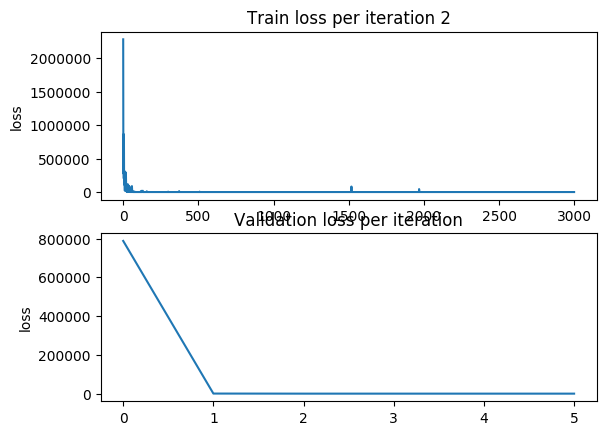
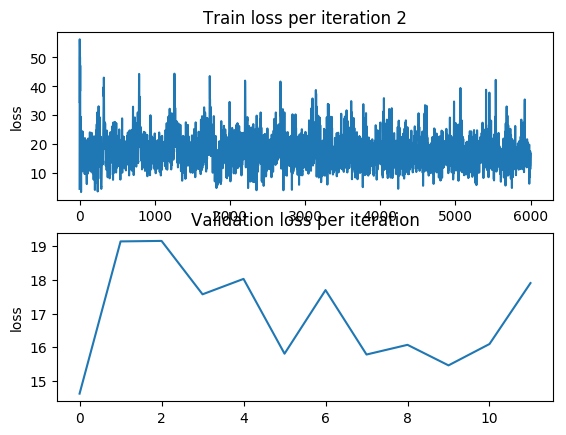
smaller LR with plots

diff --git a/code/approx_sparse_coding/train.py b/code/approx_sparse_coding/train.py
@@ -17,6 +17,12 @@ def tf_sparse_count(tf_vec):
 def zero_none_grad(grad, var):
     return grad if grad != None else tf.zeros_like(var)
 
+def cape_g_byname(grad, var, name, min=-1, max=1):
+    grad  = zero_none_grad(grad, var)
+    if var.name == model.theta.name:
+        grad  = tf.clip_by_value(zero_none_grad(grad, var), min, max)
+    return grad
+
 def train(sess, model, train_gen, num_optimization_steps, valid_gen=None, valid_steps=0, logdir='./logdir'):
     """ Train.
     
@@ -42,7 +48,7 @@ def train(sess, model, train_gen, num_optimization_steps, valid_gen=None, valid_
     #
     # optimize graph with gradient decent with LR of 1/t
     global_step   = tf.Variable(0, trainable=False)
-    learning_rate = 0.1
+    learning_rate = 0.005
     k             = 0.5
     decay_rate    = 1
     learning_rate = tf.train.inverse_time_decay(learning_rate, global_step, k, decay_rate)
@@ -65,19 +71,22 @@ def train(sess, model, train_gen, num_optimization_steps, valid_gen=None, valid_
     Z_star_sparcity = []
     for step in range(num_optimization_steps):
         X_train, Z_train           = next(train_gen)
+
         _, loss, theta, Z = sess.run( [optimizer, model.loss, model.theta, model.output], 
                                     {model.input: X_train, model.target: Z_train})
         train_loss.append(loss)
         Z_sparcity.append(np.count_nonzero(Z))
         Z_star_sparcity.append(np.count_nonzero(Z_train))
 
-        print('\rTrain step: %d. Loss %.6f.' % (step+1, loss))
+        #print('\rTrain step: %d. Loss %.6f.' % (step+1, loss))
 
         if ((step) % 500 == 0):
             X_train, Z_train    = next(train_gen)
             loss, theta, Z, We, S  = sess.run( [model.loss, model.theta, model.output, model.We, model.S], 
                                                    {model.input: X_train, model.target: Z_train})
-            print('\rSanity run: Loss %.6f theta: %.6f current avg sparsity %.6f.' % (loss, theta, np.mean(Z_sparcity)))
+            print('\rSanity run: Loss %.6f current avg sparsity %.6f.' % (loss, np.mean(Z_sparcity)))
+            print('S norm: %.6f Wd norm: %.6f thea: %.6f'%(np.linalg.norm(S,'fro'), \
+                                                           np.linalg.norm(We,'fro'), theta))
 
         if (step % 500 == 0) and valid_steps != 0:
             val_avg_loss = 0
@@ -159,7 +168,7 @@ if __name__ == '__main__':
     parser = argparse.ArgumentParser(description='Train approximate sparse code learnign network based on paper \
     Learning Fast Approximations of Sparse Coding - http://yann.lecun.com/exdb/publis/pdf/gregor-icml-10.pdf')
 
-    parser.add_argument('-m', '--model', default='lista', type=str, choices=['lcod', 'lista'], \
+    parser.add_argument('-m', '--model', default='lcod', type=str, choices=['lcod', 'lista'], \
         help='input mode to use valid options are - "lcod" or "lista"')
 
     parser.add_argument('-tr', '--train_path', default='/../../lcod_trainset/trainset.npy', type=str,\
@@ -178,7 +187,7 @@ if __name__ == '__main__':
     parser.add_argument('-u', '--unroll_count', default=defualt_iters, type=int, nargs='+',\
         help='Amount of times to run lcod/list block')
 
-    parser.add_argument('-n', '--num_steps', default=3000, type=int,\
+    parser.add_argument('-n', '--num_steps', default=4000, type=int,\
         help='number of training steps')
 
     parser.add_argument('-vs', '--num_validsteps', default=50, type=int,\
@@ -205,10 +214,11 @@ if __name__ == '__main__':
         
         print("*"*30 + 'unroll amount {}'.format(unroll_count) + "*"*30)
         if args.model == 'lcod':
-            model = lcod.LCoD(We_shape=We_shape, unroll_count=unroll_count)
+            X, Z = next(data_gens.train_gen)
+            model = lcod.LCoD(We_shape=We_shape, unroll_count=unroll_count, We=Wd.T)
             tst = 'cod'
         else:
-            model = lista.LISTA(We_shape=We_shape, unroll_count=unroll_count)
+            model = lista.LISTA(We_shape=We_shape, unroll_count=unroll_count, We=Wd.T)
             tst = 'ista'
 
         with tf.Session() as sess:
@@ -240,6 +250,6 @@ if __name__ == '__main__':
     plt.plot(args.unroll_count, sc_error, 'g^', label=lb2)
     plt.ylabel('error')
     plt.xlabel('iter')
-    plt.legend(loc='upper left')
+    plt.legend(loc='upper right')
     plt.show()
 

diff --git a/code/approx_sparse_coding/approx_sc.py b/code/approx_sparse_coding/approx_sc.py
@@ -1,8 +1,9 @@
 import tensorflow as tf
+import numpy as np
 
 class ApproxSC(object):
     """description of class"""
-    def __init__(self, We_shape, unroll_count, We=None,  shrinkge_type='soft thresh'):
+    def __init__(self, We_shape, unroll_count,  shrinkge_type='soft thresh'):
         """ Create a LCoD model.
         
         Args:
@@ -22,15 +23,9 @@ class ApproxSC(object):
         self._Z     = None
         #
         # Trainable Parameters 
-        self._S     = tf.Variable( tf.truncated_normal([m, m]), name='S')
-        self._theta = tf.Variable(tf.truncated_normal([1]), name='theta')
-
-        if We is None:
-            self._We    = tf.Variable( tf.truncated_normal([m,n]), name='We', dtype=tf.float32)
-        else:
-            #
-            # warm start
-            self._We    = tf.Variable(We, name='We', dtype=tf.float32)
+        self._theta = None
+        self._S     = None
+        self._We    = None
         #
         # Loss
         self._loss  = None
@@ -46,10 +41,10 @@ class ApproxSC(object):
             raise NotImplementedError('Double Tanh not implemented')
 
     def _soft_thrsh(self, B):
-        #soft_thrsh_out = tf.multiply(tf.sign(B), tf.nn.relu(tf.subtract(tf.abs(B), self._theta)))
-        soft_thrsh_out  = tf.nn.relu(tf.divide(B, self._theta) - 1)
-        soft_thrsh_out  = tf.multiply(tf.sign(B), soft_thrsh_out)
-        soft_thrsh_out  = tf.multiply(soft_thrsh_out, self._theta)
+        soft_thrsh_out = tf.multiply(tf.sign(B), tf.nn.relu(tf.subtract(tf.abs(B), self._theta)))
+        #soft_thrsh_out  = tf.nn.relu(tf.divide(B, self._theta) - 1)
+        #soft_thrsh_out  = tf.multiply(tf.sign(B), soft_thrsh_out)
+        #soft_thrsh_out  = tf.multiply(soft_thrsh_out, self._theta)
         return soft_thrsh_out
 
     def _double_tanh(self, B):
@@ -82,14 +77,21 @@ class ApproxSC(object):
 
     @property
     def theta(self):
+        if self._theta is None:
+            assert('Abstract class define child theta') 
+
         return self._theta
         
     @property
     def S(self):
+        if self._S is None:
+            assert('Abstract class define child S') 
         return self._S
 
     @property
     def We(self):
+        if self._We is None:
+            assert('Abstract class define child We') 
         return self._We
 
     @property

diff --git a/code/approx_sparse_coding/lcod.py b/code/approx_sparse_coding/lcod.py
@@ -20,9 +20,20 @@ class LCoD(ApproxSC):
             We_shape: Input X is encoded using matmul(We, X).
             unroll_size: Amount of times to repeat lcod block.
         """
-        super().__init__(We_shape, unroll_count, We, shrinkge_type)
-        m, n = self._We_shape
-        self._Z     = tf.Variable(tf.zeros_initializer([m, 1]), trainable=False)
+        super().__init__(We_shape, unroll_count, shrinkge_type)
+        m, n            = self._We_shape
+        self._Z         = tf.zeros([m, 1])
+        if We != None:
+            #
+            # warm start
+            self._theta = tf.Variable(tf.constant(0.5), name='theta')
+            self._We    = tf.Variable(We, name='We', dtype=tf.float32)
+            self._S     = tf.Variable(np.eye(m) - np.matmul(We, We.T), dtype=tf.float32)
+        else:
+            self._theta = tf.Variable(tf.truncated_normal([1]), name='theta')
+            self._S     = tf.Variable( tf.truncated_normal([m, m]), name='S')
+            self._We    = tf.Variable( tf.truncated_normal([m,n]), name='We', dtype=tf.float32)
+
      
  
     def _lcod_step(self, Z, B, S, shrink_fn):
@@ -69,8 +80,9 @@ class LCoD(ApproxSC):
         """
         if self._loss is None:
             with tf.variable_scope('loss'):
-                self._loss = tf.nn.l2_loss(self._Zstar - self._Z, name='loss') 
-                #self._loss += 0.01*tf.nn.l2_loss(self._theta)
+                self._loss = tf.nn.l2_loss(self._Zstar - self._Z, name='loss')
+                self._loss += 1e6*tf.nn.l2_loss(tf.minimum(self._theta, 0))  
+                #self._loss += tf.nn.l2_loss(self._theta)
                 #self._loss += 0.1*tf.nn.l2_loss(self._S)
                 #self._loss += 0.1*tf.nn.l2_loss(self._We) 
         return self._loss

diff --git a/code/approx_sparse_coding/lista.py b/code/approx_sparse_coding/lista.py
@@ -5,6 +5,7 @@ import sys
 from approx_sc import ApproxSC
 
 
+
 class LISTA(ApproxSC):
     """description of class"""
 
@@ -15,7 +16,19 @@ class LISTA(ApproxSC):
             We_shape: Input X is encoded using matmul(We, X).
             unroll_size: Amount of times to repeat lcod block.
         """
-        super().__init__(We_shape, unroll_count, We, shrinkge_type)
+        super().__init__(We_shape, unroll_count, shrinkge_type)
+        m, n            = self._We_shape
+        if We != None:
+            #
+            # warm start
+            L           = max(abs(np.linalg.eigvals(np.matmul(We, We.T))))
+            self._theta = tf.Variable(tf.constant(0.5/L, dtype=tf.float32), name='theta')
+            self._We    = tf.Variable(We/L, name='We', dtype=tf.float32)
+            self._S     = tf.Variable(np.eye(m) - np.matmul(We/L, We.T), dtype=tf.float32)
+        else:
+            self._theta = tf.Variable(tf.truncated_normal([1]), name='theta')
+            self._S     = tf.Variable( tf.truncated_normal([m, m]), name='S')
+            self._We    = tf.Variable( tf.truncated_normal([m,n]), name='We', dtype=tf.float32)
  
     def _lista_step(self, Z, B, S, shrink_fn):
         """ LCoD step.

diff --git a/code/approx_sparse_coding/train_mnist.py b/code/approx_sparse_coding/train_mnist.py
@@ -1,4 +1,3 @@
-import lcod
 import mnist
 #import tensorflow as tf
 import shutil
@@ -7,18 +6,18 @@ import numpy as np
 from sparse_coding import cod, ista
 from sklearn.decomposition import MiniBatchDictionaryLearning
 from sklearn import linear_model
+import lcod
 
 traindata = np.load(r'C:\Users\Hillel\Desktop\Msc3\sparse\final_project\mnist\train.npy')
 input     = traindata[:, 2:]
-label     = np.zeros(shape=(input.shape(0), 10))
-label[np.arange(traindata[:, 2:].shape(0), traindata[:, 1])] = 1 
+label     = np.zeros(shape=(input.shape[0], 10))
+label[np.arange(traindata[:, 2:].shape[0]), traindata[:, 1].astype(np.int)] = 1 
 
 dico = MiniBatchDictionaryLearning(n_components=400, alpha=0.5, n_iter=1000)
 Wd = dico.fit(input).components_.T
 
 clf = linear_model.Lasso(alpha=0.1)
     
-
 model = lcod.LCoD(We_shape=Wd.T.shape, unroll_count=7)
 
 

diff --git a/code/Utils/db_tools.py b/code/Utils/db_tools.py
@@ -162,9 +162,9 @@ def trainset_gen(data_train_path, valid_ratio=0.2):
     input /= np.std(input, axis=1, keepdims=True)
     #
     # random shuffle
-    permutation = np.random.permutation(labels.shape[0])
-    input = input[permutation, :]
-    labels = labels[permutation, :]
+    #permutation = np.random.permutation(labels.shape[0])
+    #input = input[permutation, :]
+    #labels = labels[permutation, :]
 
     trainset_gen = basic_X_Z_gen(input[train_offset:], labels[train_offset:])
     validset_gen = basic_X_Z_gen(input[:train_offset], labels[:train_offset])
